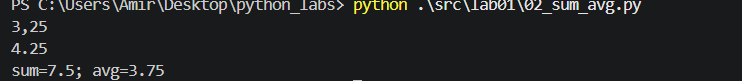
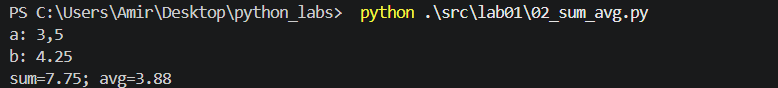
PRAVKI

diff --git a/src/lab01/03_discount_vat.py b/src/lab01/03_discount_vat.py
@@ -1,11 +1,9 @@
 price = float(input("Цена: "))
 discount = float(input("Скидка: "))
 vat = float(input("НДС: "))
-
-base = round(price * (1 - discount / 100),2)
-vat_amount = round(base * (vat / 100),2)
-total = round(base + vat_amount,2)
-
-print(f"База после скидки: {base} ₽")
-print(f"НДС: {vat_amount} ₽")
-print(f"Итого к оплате: {total} ₽")
+base = price * (1 - discount / 100)
+vat_amount = base * (vat / 100)
+total = base + vat_amount
+print(f"База после скидки: {base:.2f} ₽")
+print(f"НДС: {vat_amount:.2f} ₽")
+print(f"Итого к оплате: {total:.2f} ₽")

diff --git a/src/lab01/02_sum_avg.py b/src/lab01/02_sum_avg.py
@@ -1,5 +1,5 @@
-a = float(input().replace(',', '.'))
-b = float(input().replace(',', '.'))
-sum = round(a + b, 2)
-avg = round((a + b) / 2, 2)
-print(f"sum={sum}; avg={avg}")
+a = float(input('a: ').replace(',', '.'))
+b = float(input('b: ').replace(',', '.'))
+sum = a + b
+avg = (a + b) / 2
+print(f"sum={sum:.2f}; avg={avg:.2f}")

diff --git a/src/lab01/01_greeting.py b/src/lab01/01_greeting.py
@@ -1,3 +1,3 @@
-name = input('Имя:')
-age = int(input('Возраст:'))
+name = input('Имя: ')
+age = int(input('Возраст: '))
 print(f"Привет, {name}! Через год тебе будет {age + 1}.")
